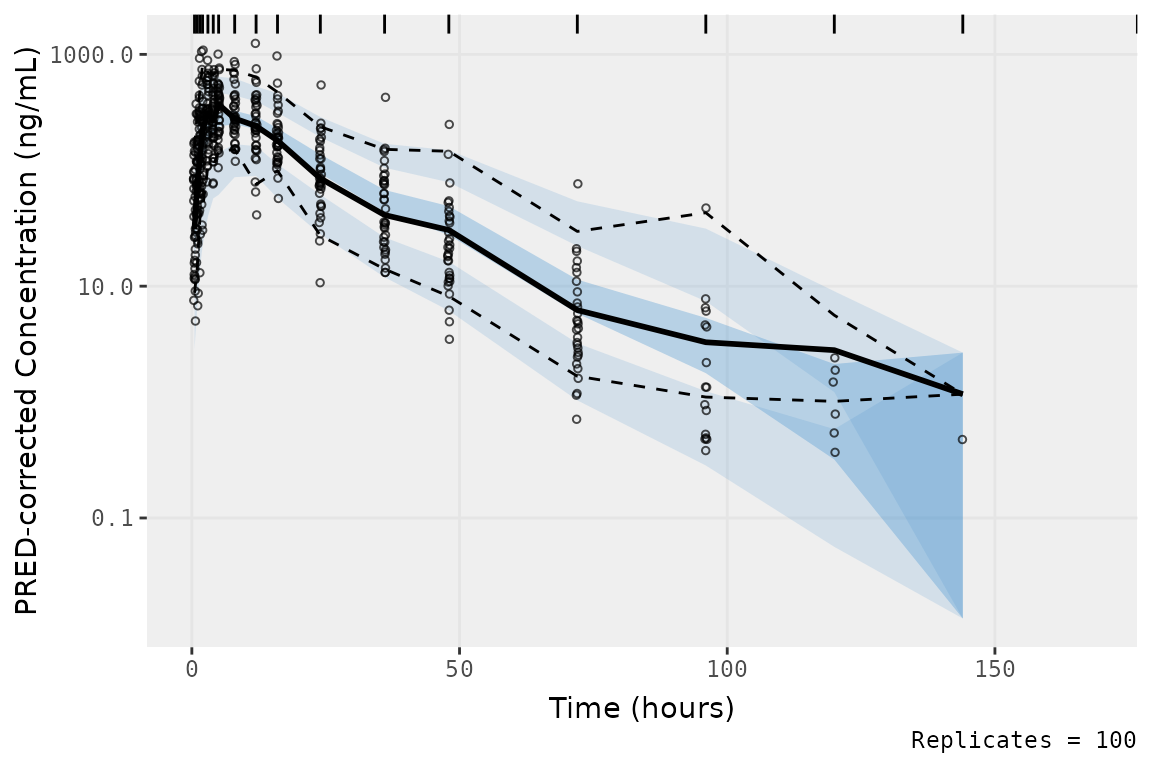
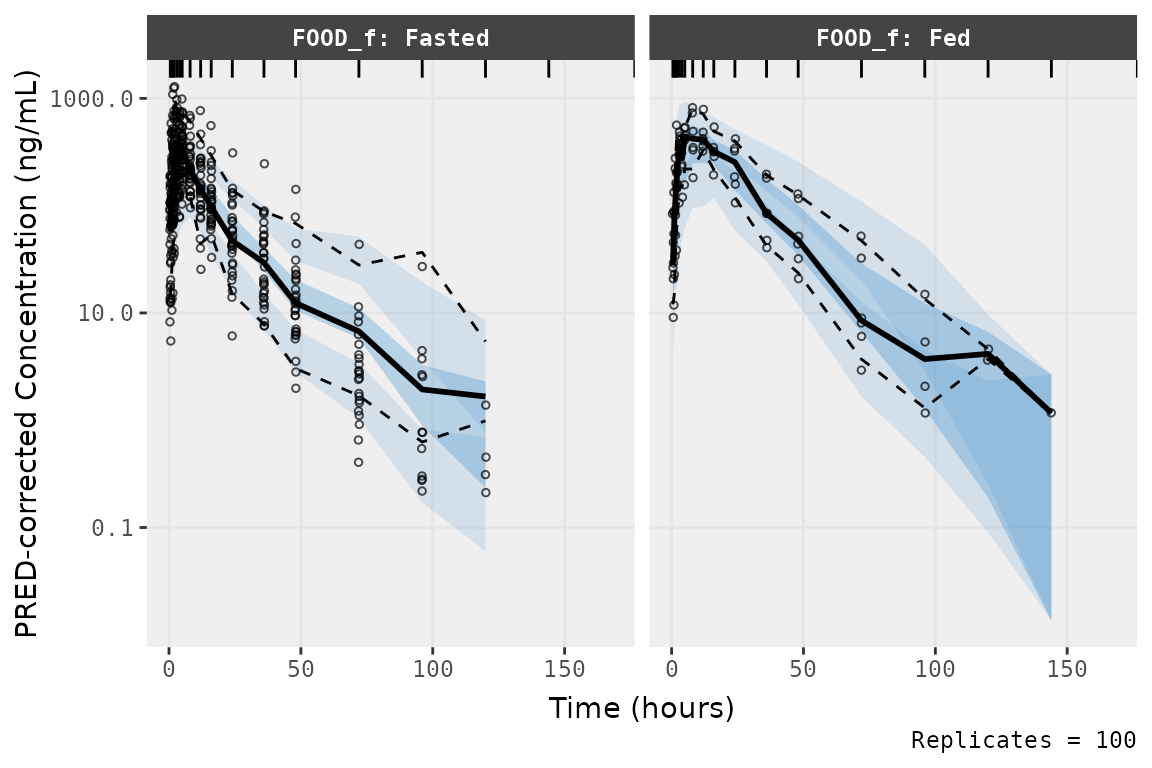
Deploying to gh-pages from @ ryancrass/pmxhelpr@4fdfe7d096bc03471522a6a6c0e26ba97d6fff8d 🚀

diff --git a/articles/vpc-plot-aesthetics.html b/articles/vpc-plot-aesthetics.html
@@ -257,7 +257,7 @@ median red - Observed 5th and 95th and simulated 90% CI of the 5th and
 <p>Now, let’s take a look at our plot prior plot with the new color
 schema.</p>
 <div class="sourceCode" id="cb7"><pre class="downlit sourceCode r">
-<code class="sourceCode R"><span><span class="va">vpc_pc</span> <span class="op">&lt;-</span> <span class="fu"><a href="../reference/plot_vpc_exactbins.html">plot_vpc_exactbins</a></span><span class="op">(</span></span>
+<code class="sourceCode R"><span><span class="va">vpc_pc_new</span> <span class="op">&lt;-</span> <span class="fu"><a href="../reference/plot_vpc_exactbins.html">plot_vpc_exactbins</a></span><span class="op">(</span></span>
 <span>  sim <span class="op">=</span> <span class="va">simout</span>, </span>
 <span>  time_vars <span class="op">=</span> <span class="fu"><a href="https://rdrr.io/r/base/c.html" class="external-link">c</a></span><span class="op">(</span>TIME <span class="op">=</span> <span class="st">"TIME"</span>, NTIME <span class="op">=</span> <span class="st">"NTIME"</span><span class="op">)</span>,</span>
 <span>  output_vars <span class="op">=</span> <span class="fu"><a href="https://rdrr.io/r/base/c.html" class="external-link">c</a></span><span class="op">(</span>PRED <span class="op">=</span> <span class="st">"PRED"</span>, IPRED <span class="op">=</span> <span class="st">"IPRED"</span>, SIMDV <span class="op">=</span> <span class="st">"SIMDV"</span>, OBSDV <span class="op">=</span> <span class="st">"OBSDV"</span><span class="op">)</span>,</span>
@@ -271,14 +271,14 @@ schema.</p>
 <span><span class="co">#&gt; Joining with `by = join_by(NTIME)`</span></span>
 <span><span class="co">#&gt; Joining with `by = join_by(NTIME)`</span></span>
 <span></span>
-<span><span class="va">vpc_pc</span></span></code></pre></div>
+<span><span class="va">vpc_pc_new</span></span></code></pre></div>
 <p><img src="vpc-plot-aesthetics_files/figure-html/plot-vpc-pcvpc-new-theme-1.png" width="768"></p>
 <p>This is nice; however, I do not like the grey background and I would
 prefer only major y-axis grid lines without any x-axis grid lines.
 Conveniently, we can just add <code><a href="https://ggplot2.tidyverse.org/reference/theme.html" class="external-link">theme()</a></code> elements on top of
 the plot object using the standard <code>ggplot2</code> approach.</p>
 <div class="sourceCode" id="cb8"><pre class="downlit sourceCode r">
-<code class="sourceCode R"><span><span class="va">vpc_pc_new</span> <span class="op">&lt;-</span> <span class="fu"><a href="../reference/plot_vpc_exactbins.html">plot_vpc_exactbins</a></span><span class="op">(</span></span>
+<code class="sourceCode R"><span><span class="va">vpc_pc_new2</span> <span class="op">&lt;-</span> <span class="fu"><a href="../reference/plot_vpc_exactbins.html">plot_vpc_exactbins</a></span><span class="op">(</span></span>
 <span>  sim <span class="op">=</span> <span class="va">simout</span>, </span>
 <span>  time_vars <span class="op">=</span> <span class="fu"><a href="https://rdrr.io/r/base/c.html" class="external-link">c</a></span><span class="op">(</span>TIME <span class="op">=</span> <span class="st">"TIME"</span>, NTIME <span class="op">=</span> <span class="st">"NTIME"</span><span class="op">)</span>,</span>
 <span>  output_vars <span class="op">=</span> <span class="fu"><a href="https://rdrr.io/r/base/c.html" class="external-link">c</a></span><span class="op">(</span>PRED <span class="op">=</span> <span class="st">"PRED"</span>, IPRED <span class="op">=</span> <span class="st">"IPRED"</span>, SIMDV <span class="op">=</span> <span class="st">"SIMDV"</span>, OBSDV <span class="op">=</span> <span class="st">"OBSDV"</span><span class="op">)</span>,</span>
@@ -296,7 +296,7 @@ the plot object using the standard <code>ggplot2</code> approach.</p>
 <span><span class="co">#&gt; Joining with `by = join_by(NTIME)`</span></span>
 <span><span class="co">#&gt; Joining with `by = join_by(NTIME)`</span></span>
 <span></span>
-<span><span class="va">vpc_pc_new</span></span></code></pre></div>
+<span><span class="va">vpc_pc_new2</span></span></code></pre></div>
 <p><img src="vpc-plot-aesthetics_files/figure-html/plot-vpc-pcvpc-new-1.png" width="768"></p>
 <p>Okay, now we have gotten the plot aesthetics where we want them;
 however, there is one other element we may like to include in the figure
@@ -334,7 +334,7 @@ with the VPC plot objects into a single plot object with the
 <span><span class="va">vpc_pc_wleg</span></span></code></pre></div>
 <p><img src="vpc-plot-aesthetics_files/figure-html/plot-vpc-pcvpc-w-legend-1.png" width="768"></p>
 <div class="sourceCode" id="cb12"><pre class="downlit sourceCode r">
-<code class="sourceCode R"><span><span class="va">vpc_pc_new_wleg</span> <span class="op">&lt;-</span> <span class="va">vpc_pc_new</span> <span class="op">+</span> <span class="va">vpc_pc_new_legend</span> <span class="op">+</span> <span class="fu"><a href="https://patchwork.data-imaginist.com/reference/plot_layout.html" class="external-link">plot_layout</a></span><span class="op">(</span>heights <span class="op">=</span> <span class="fu"><a href="https://rdrr.io/r/base/c.html" class="external-link">c</a></span><span class="op">(</span><span class="fl">2.5</span>,<span class="fl">1</span><span class="op">)</span><span class="op">)</span></span>
+<code class="sourceCode R"><span><span class="va">vpc_pc_new_wleg</span> <span class="op">&lt;-</span> <span class="va">vpc_pc_new2</span> <span class="op">+</span> <span class="va">vpc_pc_new_legend</span> <span class="op">+</span> <span class="fu"><a href="https://patchwork.data-imaginist.com/reference/plot_layout.html" class="external-link">plot_layout</a></span><span class="op">(</span>heights <span class="op">=</span> <span class="fu"><a href="https://rdrr.io/r/base/c.html" class="external-link">c</a></span><span class="op">(</span><span class="fl">2.5</span>,<span class="fl">1</span><span class="op">)</span><span class="op">)</span></span>
 <span><span class="va">vpc_pc_new_wleg</span></span></code></pre></div>
 <p><img src="vpc-plot-aesthetics_files/figure-html/plot-vpc-pcvpc-new-w-legend-1.png" width="768"></p>
   </main>

diff --git a/articles/vpc-exact-bins.html b/articles/vpc-exact-bins.html
@@ -77,7 +77,7 @@ generate VPC plots including, but certainly not limited to:</p>
 function</li>
 <li>built-in options for automatic binning for datasets without a binned
 variable</li>
-<li>build-in option for prediction-correction</li>
+<li>built-in option for prediction-correction</li>
 <li>built-in option for censoring at the lower limit of quantification
 (LLOQ)</li>
 </ol>
@@ -130,8 +130,9 @@ from the dplyr package.</p>
 contains NONMEM reserved variables (e.g., ID, TIME, AMT, EVID, MDV), as
 well as, dependent variables of drug concentration in original units
 (ODV) and natural logarithm transformed units (LDV). In addition to the
-numeric variables, there are two character variables: USUBJID and PART.
-PART specifies the two study cohorts:</p>
+numeric variables, there are two character variables: USUBJID and
+PART.</p>
+<p>PART specifies the two study cohorts:</p>
 <ul>
 <li>Single Ascending Dose (SAD)</li>
 <li>Food Effect (FE).</li>
@@ -921,7 +922,7 @@ Currently, only one variable can be passed to this argument.</p>
 <div class="sourceCode" id="cb25"><pre class="downlit sourceCode r">
 <code class="sourceCode R"><span><span class="va">vpc_exact_food</span> <span class="op">&lt;-</span> <span class="fu"><a href="../reference/plot_vpc_exactbins.html">plot_vpc_exactbins</a></span><span class="op">(</span></span>
 <span>  sim <span class="op">=</span> <span class="fu"><a href="https://dplyr.tidyverse.org/reference/mutate.html" class="external-link">mutate</a></span><span class="op">(</span><span class="va">simout</span>, FOOD_f <span class="op">=</span> <span class="fu"><a href="https://rdrr.io/r/base/factor.html" class="external-link">factor</a></span><span class="op">(</span><span class="va">FOOD</span>, levels <span class="op">=</span> <span class="fu"><a href="https://rdrr.io/r/base/c.html" class="external-link">c</a></span><span class="op">(</span><span class="fl">0</span>,<span class="fl">1</span><span class="op">)</span>, labels <span class="op">=</span> <span class="fu"><a href="https://rdrr.io/r/base/c.html" class="external-link">c</a></span><span class="op">(</span><span class="st">"Fasted"</span>, <span class="st">"Fed"</span><span class="op">)</span><span class="op">)</span><span class="op">)</span>, </span>
-<span>  strat_vars <span class="op">=</span> <span class="st">"FOOD_f"</span>,</span>
+<span>  strat_var <span class="op">=</span> <span class="st">"FOOD_f"</span>,</span>
 <span>  pcvpc <span class="op">=</span> <span class="cn">TRUE</span>,</span>
 <span>  log_y <span class="op">=</span> <span class="cn">TRUE</span>,</span>
 <span>  xlab <span class="op">=</span> <span class="st">"Time (hours)"</span>,</span>
